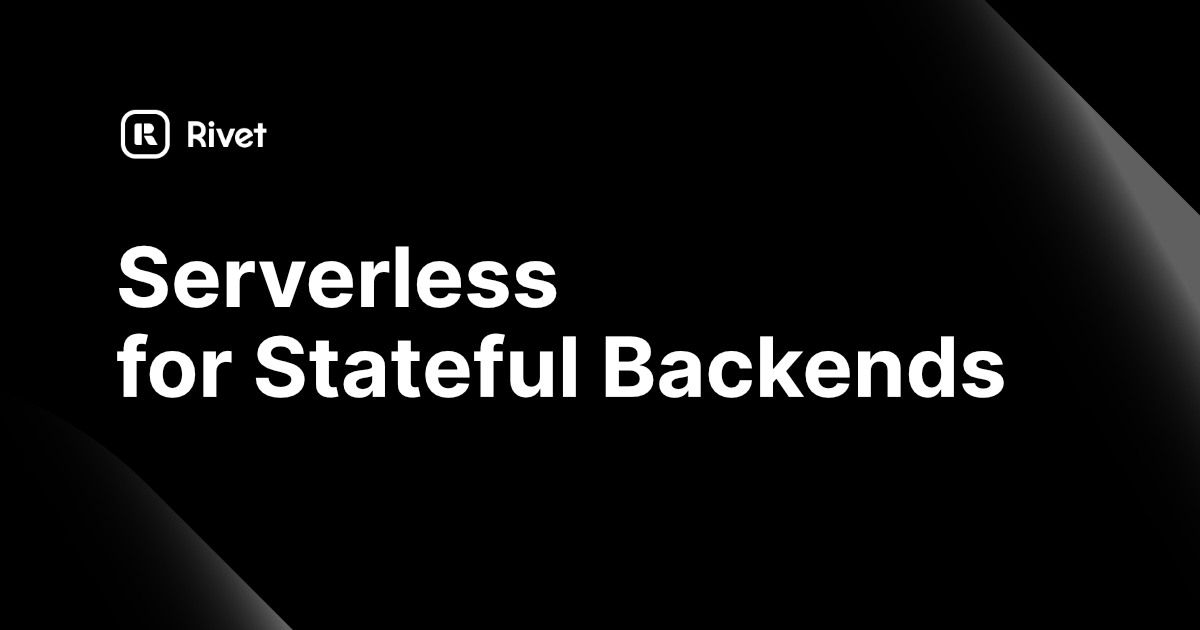
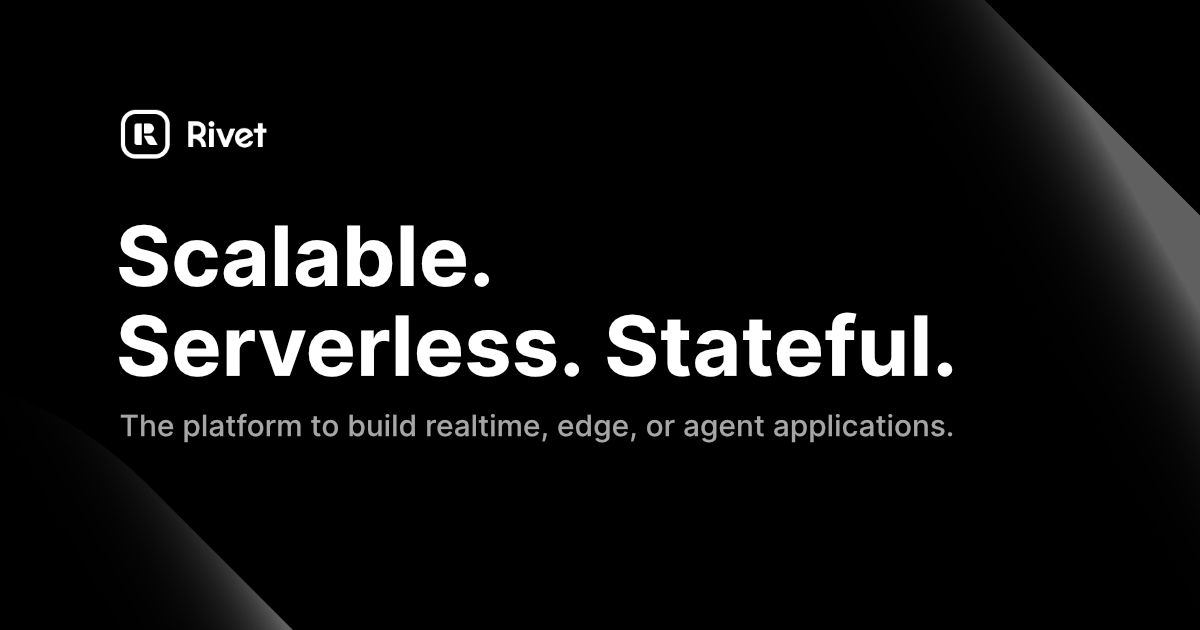
chore: update website

Changed region(s): [[0.0925, 0.3619, 0.8325, 0.6937]]

diff --git a/site/src/components/GitHubStars.tsx b/site/src/components/GitHubStars.tsx
@@ -1,3 +1,4 @@
+'use client';
 import { useState, useEffect } from 'react';
 import { Icon, faGithub } from '@rivet-gg/icons';
 import { cn } from '@rivet-gg/components';
@@ -13,27 +14,54 @@ function formatNumber(num: number): string {
   return num.toString();
 }
 
-export async function GitHubStars({ repo = 'rivet-gg/rivet', className, ...props }: GitHubStarsProps) {
-  try {
-    const response = await fetch(`https://api.github.com/repos/${repo}`);
-    const data = await response.json();
-    const { stargazers_count: stars } = data;
+export function GitHubStars({ repo = 'rivet-gg/rivet', className, ...props }: GitHubStarsProps) {
+  const [stars, setStars] = useState<number | null>(null);
+  
+  useEffect(() => {
+    const cacheKey = `github-stars-${repo}`;
+    const cachedData = sessionStorage.getItem(cacheKey);
     
-    return (
-      <a
-        href={`https://github.com/${repo}`}
-        target='_blank'
-        rel='noreferrer'
-        className={cn(
-          "md:bg-white/10 rounded-md px-4 h-10 flex items-center gap-2 md:hover:bg-white/20 transition-colors",
-          className
-        )}
-        {...props}>
-        <Icon icon={faGithub} /> <span className="hidden md:inline">{stars ? `${formatNumber(stars)} Stars` : 'GitHub'}</span>
-      </a>
-    );
-  } catch (err) {
-    console.error('Failed to fetch stars', err);
-    return null;
-  }
+    if (cachedData) {
+      const { stars: cachedStars, timestamp } = JSON.parse(cachedData);
+      // Check if cache is less than 5 minutes old
+      if (Date.now() - timestamp < 5 * 60 * 1000) {
+        setStars(cachedStars);
+        return;
+      }
+    }
+
+    fetch(`https://api.github.com/repos/${repo}`)
+      .then(response => {
+        if (!response.ok) throw new Error('Failed to fetch');
+        return response.json();
+      })
+      .then(data => {
+        const newStars = data.stargazers_count;
+        setStars(newStars);
+        sessionStorage.setItem(cacheKey, JSON.stringify({
+          stars: newStars,
+          timestamp: Date.now()
+        }));
+      })
+      .catch(err => {
+        console.error('Failed to fetch stars', err);
+      });
+  }, [repo]);
+
+  return (
+    <a
+      href={`https://github.com/${repo}`}
+      target='_blank'
+      rel='noreferrer'
+      className={cn(
+        "md:bg-white/10 rounded-md px-4 h-10 flex items-center gap-2 md:hover:bg-white/20 transition-colors",
+        className
+      )}
+      {...props}>
+      <Icon icon={faGithub} /> 
+      <span className="hidden md:inline">
+        {stars ? `${formatNumber(stars)} Stars` : 'GitHub'}
+      </span>
+    </a>
+  );
 } 

diff --git a/site/src/styles/tailwind.css b/site/src/styles/tailwind.css
@@ -1,6 +1,15 @@
 @config "../../tailwind.config.js";
 
 @layer base {
+  ::selection {
+    background-color: #FF4F00 !important;
+    color: black !important;
+  }
+  ::-moz-selection {
+    background-color: #FF4F00 !important;
+    color: black !important;
+  }
+
   :root {
     --shiki-color-text: theme('colors.white');
     --shiki-token-constant: theme('colors.violet.300');
@@ -138,5 +147,17 @@
 
   .main-content-container {
     @apply mx-auto max-w-screen-2xl;
+  }
+}
+
+/* Ensure it works in all contexts */
+*, *::before, *::after {
+  ::selection {
+    background-color: #FF4F00 !important;
+    color: black !important;
+  }
+  ::-moz-selection {
+    background-color: #FF4F00 !important;
+    color: black !important;
   }
 }

diff --git a/site/src/app/layout.tsx b/site/src/app/layout.tsx
@@ -10,8 +10,8 @@ else if (process.env.CF_PAGES_URL) metadataBase = new URL(process.env.CF_PAGES_U
 
 export const metadata: Metadata = {
   metadataBase,
-  title: 'Rivet - Serverless for stateful backends',
-  description: 'Rivet Actors have built-in RPC, state, and events — the easiest way to build modern applications.',
+  title: 'Rivet - Scalable. Stateful. Serverless.',
+  description: 'Rivet is the platform to build realtime, edge, or agent applications.No limitations of Redis or timeouts of Lambda. Open-source & self-hostable.',
   twitter: {
     site: '@rivetgg',
     card: 'summary_large_image'

diff --git a/site/src/components/v2/FancyHeader.tsx b/site/src/components/v2/FancyHeader.tsx
@@ -55,7 +55,14 @@ export function FancyHeader({ active, subnav, mobileBreadcrumbs }: FancyHeaderPr
             className={headerStyles}
             logo={
               <Link href='/'>
-                <Image {...logoUrl} className='ml-1 w-20' alt='Rivet logo' />
+                <Image 
+                  src={logoUrl.src || logoUrl}
+                  width={80}
+                  height={24}
+                  className='ml-1 w-20' 
+                  alt='Rivet logo'
+                  unoptimized
+                />
               </Link>
             }
             subnav={subnav}
